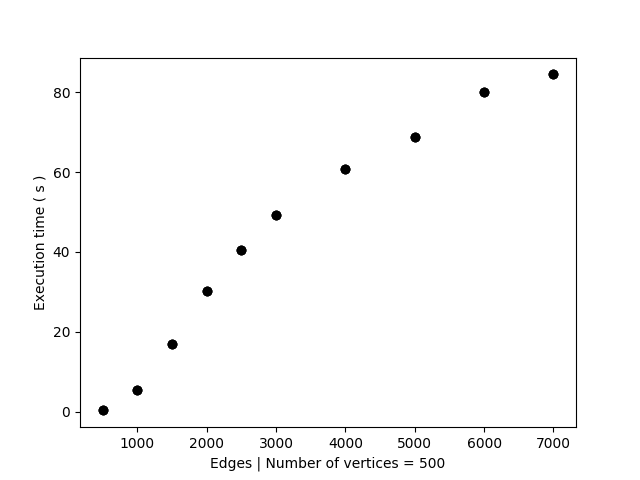
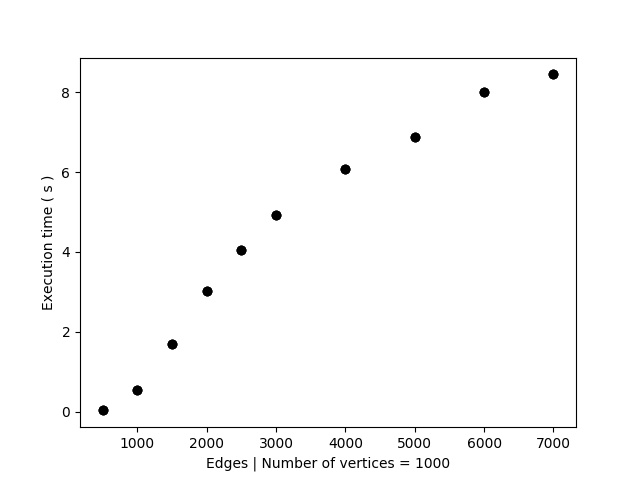
Minor changes. Added report.

diff --git a/plot.py b/plot.py
@@ -19,12 +19,13 @@ for i in range(len(y)):
 y_plot = []
 for i in range(len(y)):
     xx = x[i]
-    y_plot.append(t[xx]*14.711*10/c[xx])
+    # y_plot.append(t[xx]*0.0001/c[xx])
+    y_plot.append(t[xx]*14.711*0.6*0.5*10/c[xx])
 
 # print t[700]*10.0/c[700]
 # print y_plot
 
-# plt.xlabel("Edges | Number of vertices = 500")
+# plt.xlabel("Edges | Number of vertices = 1000")
 plt.xlabel("Vertices")
 plt.ylabel("Execution time ( s )")
 
